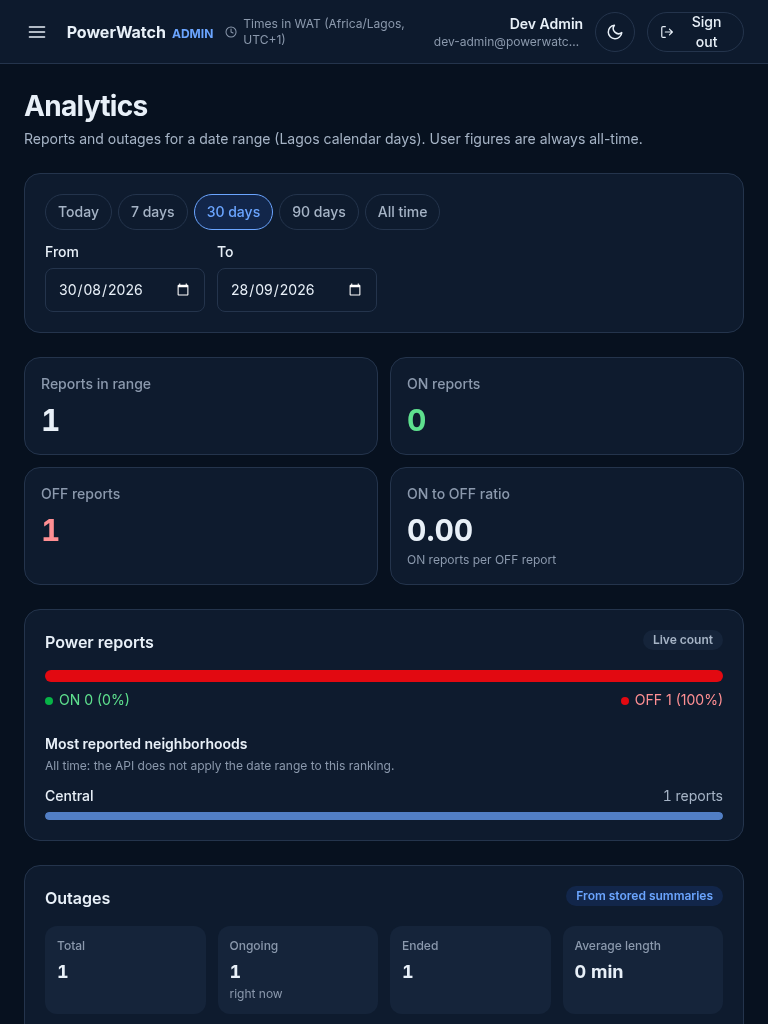
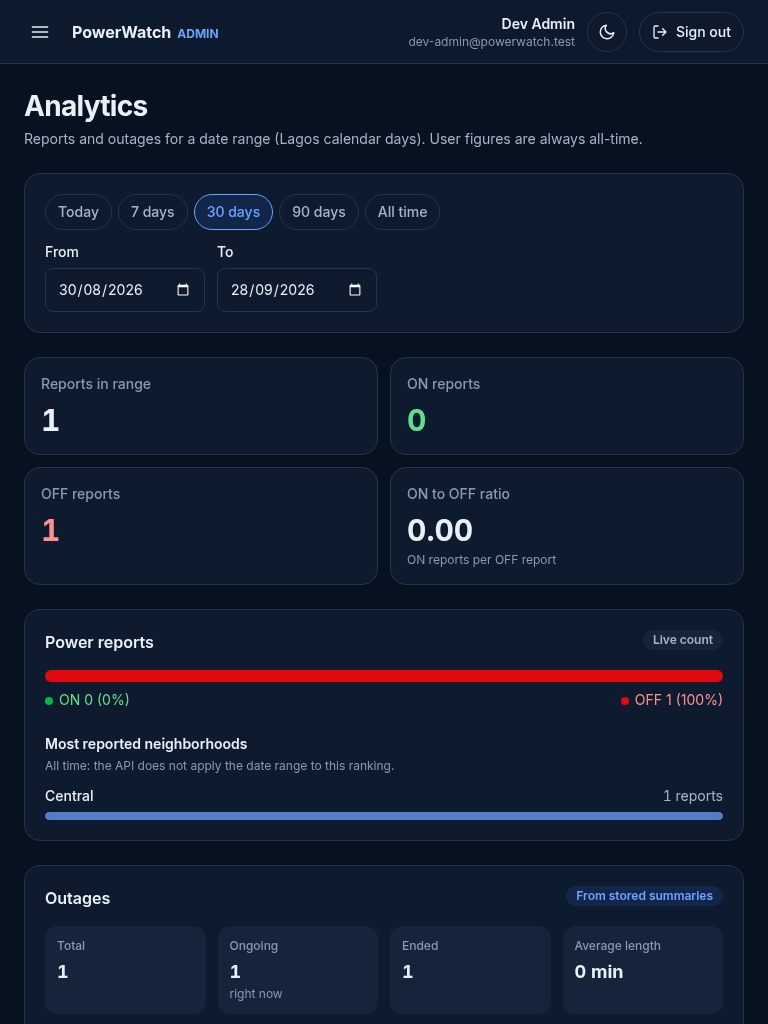
refactor(admin): improve layout stability and documentation
Update admin dashboard layout for better responsiveness, add deployment
documentation for cPanel environments, and include Prisma generation in
the postinstall lifecycle.

- Improve admin layout responsiveness and prevent element overflow
- Add `postinstall` script to automate `prisma generate`
- Update cPanel deployment docs with WebAssembly trap handler fixes
- Add `APP_WEB_URL` and `SUPPORT_EMAIL` to environment configuration
- Add admin application README

diff --git a/apps/admin/src/components/Layout.tsx b/apps/admin/src/components/Layout.tsx
@@ -171,7 +171,7 @@ export default function Layout() {
             <span className="text-base font-bold text-ink">PowerWatch</span>
             <span className="ml-1.5 text-xs font-bold uppercase text-accent">Admin</span>
           </div>
-          <p className="hidden items-center gap-1.5 text-xs text-muted md:flex">
+          <p className="hidden items-center gap-1.5 text-xs text-muted xl:flex">
             <Icon name="clock" size={14} />
             Times in {TIME_ZONE_LABEL}
           </p>
@@ -187,7 +187,7 @@ export default function Layout() {
               type="button"
               onClick={handleSignOut}
               disabled={signingOut}
-              className="flex h-10 items-center gap-2 rounded-full border border-line px-3 text-sm font-medium text-ink transition hover:border-off-ink hover:text-off-ink disabled:opacity-60"
+              className="flex h-10 flex-shrink-0 items-center gap-2 whitespace-nowrap rounded-full border border-line px-3 text-sm font-medium text-ink transition hover:border-off-ink hover:text-off-ink disabled:opacity-60"
             >
               <Icon name="logout" size={16} />
               <span className="hidden sm:inline">{signingOut ? "Signing out…" : "Sign out"}</span>
@@ -196,7 +196,7 @@ export default function Layout() {
           </div>
         </header>
 
-        <main id="main" ref={main} tabIndex={-1} className="mx-auto w-full max-w-[90rem] px-4 py-6 outline-none sm:px-6 lg:px-8 lg:py-8">
+        <main id="main" ref={main} tabIndex={-1} className="relative mx-auto w-full max-w-[90rem] px-4 py-6 outline-none sm:px-6 lg:px-8 lg:py-8">
           <Outlet />
         </main>
       </div>

diff --git a/apps/admin/src/components/Table.tsx b/apps/admin/src/components/Table.tsx
@@ -6,7 +6,7 @@ import type { ReactNode } from "react";
  */
 export function Table({ caption, head, children }: { caption: string; head: ReactNode; children: ReactNode }) {
   return (
-    <div className="-mx-4 overflow-x-auto sm:-mx-5" tabIndex={0} role="region" aria-label={caption}>
+    <div className="relative -mx-4 overflow-x-auto sm:-mx-5" tabIndex={0} role="region" aria-label={caption}>
       <table className="w-full min-w-[40rem] border-collapse text-left text-sm">
         <caption className="sr-only">{caption}</caption>
         <thead>

diff --git a/apps/admin/src/index.css b/apps/admin/src/index.css
@@ -71,6 +71,11 @@ body {
   border-radius: 6px;
 }
 
+/* Page content receives focus after navigation for screen readers; no ring needed there */
+[tabindex="-1"]:focus {
+  outline: none;
+}
+
 dialog::backdrop {
   background: rgb(7 17 31 / 0.55);
 }

diff --git a/apps/admin/README.md b/apps/admin/README.md
@@ -1,0 +1,97 @@
+# PowerWatch Admin
+
+Web dashboard for PowerWatch administrators. It talks to the PowerWatch API (`src/` in this
+repo) and gives every admin endpoint a screen.
+
+Stack: React 19, Vite 8, Tailwind CSS 4, TypeScript (strict), React Router 8. No other runtime
+dependencies; charts are plain HTML/CSS bars.
+
+## Screens
+
+| Screen | Path | API endpoints |
+| --- | --- | --- |
+| Sign in | any path while signed out | `POST /auth/login`, `POST /auth/logout` (revokes a non-admin's session), `POST /auth/refresh-token`, `GET /auth/me` |
+| Overview | `/` | `GET /admin/dashboard`, `GET /reports/outages?activeOnly=true`, `GET /health` |
+| Analytics | `/analytics` | `GET /admin/analytics`, `GET /analytics/power`, `GET /analytics/outages`, `GET /analytics/users` |
+| Neighborhood stats | `/neighborhood-stats` | `GET /analytics/locations` |
+| Live status | `/status` | `GET /locations/status-map?stateId=` / `?lgaId=`, `GET /reports/status`, `GET /reports/activity` |
+| Users | `/users` | `GET /admin/users`, `POST /admin/users/:id/suspend`, `POST /admin/users/:id/unsuspend`, `DELETE /admin/users/:id` |
+| Reports | `/reports` | `GET /reports`, `GET /reports/:id`, `DELETE /admin/reports/:id`, `GET /locations/search` |
+| Outages | `/outages` | `GET /reports/outages`, `GET /reports/outages/:id`, `DELETE /admin/reports/:id` |
+| Locations | `/locations` | `GET /admin/locations`, `PATCH /admin/locations` |
+| Broadcast | `/broadcast` | `POST /admin/broadcast` |
+| Summaries | `/summaries` | `POST /admin/materialize/daily`, `/weekly`, `/monthly` |
+| System health | `/health` | `GET /health`, `GET /health/database`, `GET /health/firebase` |
+| Account | `/account` | `GET /auth/me`, `GET /auth/sessions`, `DELETE /auth/sessions/:id`, `POST /auth/logout-all` |
+
+## Running locally
+
+```bash
+npm install
+npm run dev        # http://localhost:5190
+```
+
+The API must be running on `http://localhost:3000` (`npm run dev` in `src/`) and
+`http://localhost:5190` must be listed in the API's `CORS_ORIGIN`. To get an admin account locally,
+set `ADMIN_FIRST_NAME`, `ADMIN_LAST_NAME`, `ADMIN_EMAIL` and `ADMIN_PASSWORD` in `src/.env`; the
+API seeds that admin at start-up.
+
+## Build and deploy
+
+```bash
+npm run build      # type-checks, then writes the static site to dist/
+npm run lint
+```
+
+Environment variables (see `.env.example`):
+
+| Variable | Required | Default |
+| --- | --- | --- |
+| `VITE_API_URL` | no | `http://localhost:3000` in development, `https://api-powerwatch.telente.site` in production builds |
+
+`vercel.json` rewrites every path to `index.html` (client-side routes survive a refresh) and sets
+security headers: `X-Frame-Options: DENY`, `X-Content-Type-Options: nosniff`,
+`Referrer-Policy: no-referrer`, `X-Robots-Tag: noindex`, a `Permissions-Policy`, and a
+`Content-Security-Policy` that allows scripts, styles, fonts and images from the site itself and
+API calls only to `https://api-powerwatch.telente.site`. **If the API moves, change `connect-src`
+in `vercel.json` as well as `VITE_API_URL`.** The API must also list the dashboard's production
+origin in its `CORS_ORIGIN`.
+
+The theme is applied before first paint by `public/theme-init.js` (an external file, so the CSP
+needs no `unsafe-inline` for scripts).
+
+## Sessions and token storage
+
+This is an admin tool, so it keeps as little as possible in the browser:
+
+- **Access token: memory only.** It is never written to any storage, so a script that reads storage
+  can't take it, and it disappears on reload.
+- **Refresh token: `sessionStorage`.** A reload keeps you signed in (the app swaps the refresh token
+  for a new access token), but closing the tab or window ends the session. A new tab needs its own
+  sign-in. `localStorage` is not used because it would keep an admin signed in indefinitely on a
+  shared machine.
+- On a `401`, the app refreshes once (parallel requests share one refresh) and retries. If the
+  refresh is rejected, the local session is cleared and the sign-in screen explains why.
+- Signing out calls `POST /auth/logout`, which revokes the refresh token on the server.
+- Accounts whose role is not `ADMIN` are refused after login and the session the API created for
+  them is revoked immediately; their tokens are never stored.
+
+## Behaviour notes
+
+- **Times** are shown in Nigerian time (`Africa/Lagos`, WAT, UTC+1), which the UI states in the top
+  bar. Date filters are Lagos calendar days.
+- **No client caching.** Every screen fetches on open and after each action, so moderation views
+  never show data from before an action. The location hierarchy (names only) is loaded once per
+  session and reloaded after a rename.
+- **Errors.** The server's message is shown as-is, including rate-limit (`429`) messages.
+  Validation errors (`errors: [{ field, message }]`) are shown under the matching field.
+- **Rate limits.** The API allows 100 requests a minute per IP address in total. Every full page
+  reload costs a refresh-token call plus the page's own requests, so moving between screens inside
+  the app is cheaper than reloading.
+- Destructive actions (suspend, delete user, delete report, broadcast, revoke sessions) always ask
+  for confirmation and name what will be affected.
+
+## Screenshots
+
+`docs/screenshots/` holds screenshots at 360, 768 and 1440 px wide in light and dark mode, taken
+against a local API with test data.

diff --git a/docs/deployment.md b/docs/deployment.md
@@ -39,6 +39,11 @@ These are handled by the files in `src/deploy/cpanel/`, not by the application c
 | Picks the port itself | Nothing to set: leave `PORT` out of `.env` |
 | Sits in front of the app as a proxy | `TRUST_PROXY=1` in `.env`, so rate limits count real visitors |
 | Adds a 30-day cache lifetime to responses without one | The API sends `Cache-Control: no-store` |
+| Its memory cap refuses the large block Node reserves for WebAssembly, which Prisma uses (`RangeError: WebAssembly.Instance(): Out of memory`) | `--disable-wasm-trap-handler`: in `.npmrc` (`node-options`) for installs, and as the `NODE_OPTIONS` environment variable of the application in Application Manager for the running server |
+| Force HTTPS Redirect has no effect on Application Manager apps | Plain `http://` still answers. The API sends `Strict-Transport-Security`, and the mobile app refuses non-HTTPS addresses |
+
+`npm install` runs `prisma generate` (the `postinstall` script), so **Ensure dependencies**
+also rebuilds the database client.
 
 ### Release a new version
 
@@ -62,6 +67,20 @@ file is never committed. `src/.env.example` lists every variable. The production
 `JWT_ACCESS_SECRET`, `JWT_REFRESH_SECRET`, `JWT_ACCESS_EXPIRES_IN`, `JWT_REFRESH_EXPIRES_IN`,
 `APP_TIMEZONE`, `CORS_ORIGIN`, `SMTP_HOST`, `SMTP_PORT`, `SMTP_SECURE`, `SMTP_USER`,
 `SMTP_PASS`, `SMTP_FROM_EMAIL`, `SMTP_FROM_NAME`, `NOMINATIM_CONTACT_EMAIL`.
+
+Application Manager also sets `NODE_OPTIONS=--disable-wasm-trap-handler` for the app (see above).
+
+### Location data
+
+The Nigerian states, LGAs, towns and neighborhoods are loaded once with `prisma/seed.ts`. It
+skips itself if locations already exist. Without SSH, run it from cPanel **Cron Jobs** with a
+job set to every minute, and delete the job as soon as `seed.log` shows it finished:
+
+```sh
+cd /home/telente/powerwatch-api && /opt/cpanel/ea-nodejs22/bin/node --disable-wasm-trap-handler node_modules/tsx/dist/cli.mjs prisma/seed.ts > seed.log 2>&1
+```
+
+Restart the app afterwards so it fills in map coordinates for the new locations.
 
 Changing `JWT_ACCESS_SECRET` or `JWT_REFRESH_SECRET` signs everyone out and makes unused
 verification codes invalid.
